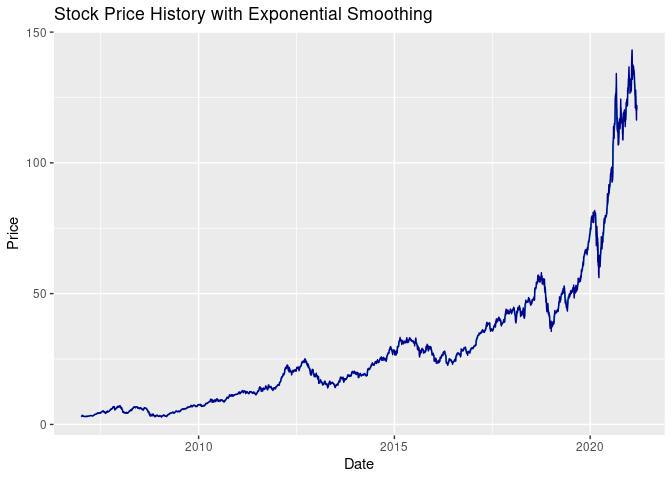
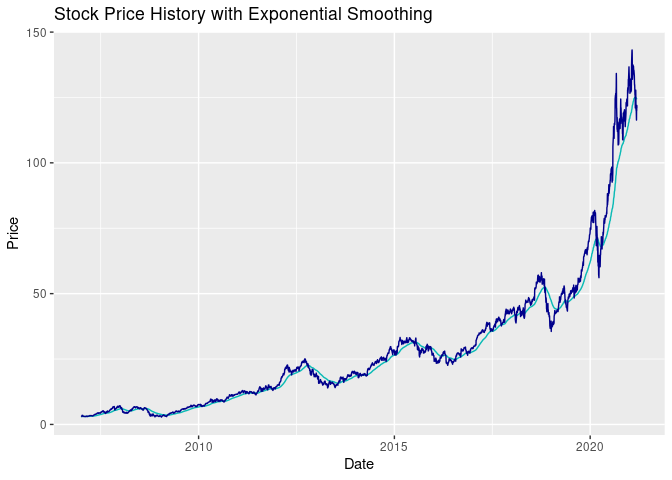
Adjust alpha value

diff --git a/README.md b/README.md
@@ -138,35 +138,35 @@ head(movingAverage(AAPL, 300, paste("movingAverage", colnames(AAPL), sep="_")))
 #> 2007-01-08                 797106800                    2.629312
 #> 2007-01-09                3349298400                    2.847729
 #> 2007-01-10                2952880000                    2.984010
-head(exponentialSmoothing(AAPL,paste("expsmoothing", colnames(AAPL), sep="_"), 0.3))
+head(exponentialSmoothing(AAPL,paste("expsmoothing", colnames(AAPL), sep="_"), 0.02))
 #>            expsmoothing_AAPL.Open expsmoothing_AAPL.High expsmoothing_AAPL.Low
 #> 2007-01-03               3.081786               3.092143              2.925000
-#> 2007-01-04               3.057786               3.085393              2.945571
-#> 2007-01-05               3.059414               3.083346              2.966186
-#> 2007-01-08               3.062590               3.085450              2.990044
-#> 2007-01-09               3.070063               3.156029              3.005352
-#> 2007-01-10               3.164223               3.257077              3.104997
+#> 2007-01-04               3.080186               3.091693              2.926371
+#> 2007-01-05               3.079847               3.091431              2.928130
+#> 2007-01-08               3.079650               3.091409              2.930481
+#> 2007-01-09               3.079807               3.095995              2.932693
+#> 2007-01-10               3.085889               3.103932              2.940789
 #>            expsmoothing_AAPL.Close expsmoothing_AAPL.Volume
 #> 2007-01-03                2.992857               1238319600
-#> 2007-01-04                3.012786               1121001840
-#> 2007-01-05                3.020200               1035123768
-#> 2007-01-08                3.029890                963718678
-#> 2007-01-09                3.112744               1679392594
-#> 2007-01-10                3.218207               2061438816
+#> 2007-01-04                2.994186               1230498416
+#> 2007-01-05                2.995052               1222583280
+#> 2007-01-08                2.996201               1214073750
+#> 2007-01-09                3.002398               1256778243
+#> 2007-01-10                3.011636               1290700278
 #>            expsmoothing_AAPL.Adjusted
 #> 2007-01-03                   2.577937
-#> 2007-01-04                   2.595103
-#> 2007-01-05                   2.601490
-#> 2007-01-08                   2.609836
-#> 2007-01-09                   2.681204
-#> 2007-01-10                   2.772046
+#> 2007-01-04                   2.579081
+#> 2007-01-05                   2.579828
+#> 2007-01-08                   2.580817
+#> 2007-01-09                   2.586156
+#> 2007-01-10                   2.594113
 visMovingAverage(AAPL, 300, 'AAPL.Close')
 ```
 
 <img src="man/figures/README-example-1.png" width="100%" />
 
 ``` r
-visExpSmoothing(AAPL, 0.3, 'AAPL.Close')
+visExpSmoothing(AAPL, 0.02, 'AAPL.Close')
 ```
 
 <img src="man/figures/README-example-2.png" width="100%" />
